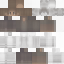
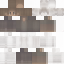
alpha premultiplication
I probably messed up the standard deviation but I have quintuple checked the code and it seems to be all good.

I probably messed up the code before which is actually really cool as the standard deviation before was really ugly and cursed imo (inner layer).

diff --git a/src/analyze.ts b/src/analyze.ts
@@ -11,14 +11,22 @@ const SKIN_CHANNELS = 4
 const SKIN_PIXELS = SKIN_WIDTH * SKIN_HEIGHT
 const SKIN_BYTES = SKIN_PIXELS * SKIN_CHANNELS
 
+// TODO: Find a less horrendous way of sharing data like this between calculations
+const totalPixelAlpha: number[] = Array(SKIN_PIXELS).fill(0)
+
 async function calculateAverage (): Promise<number[]> {
   const total: number[] = Array(SKIN_BYTES).fill(0)
 
   const splitter = new MetaFileSplitter(SKIN_BYTES)
 
   splitter.on('data', buffer => {
-    for (let i = 0; i < buffer.length; i++) {
-      total[i] += buffer[i]
+    for (let i = 0; i < buffer.length; i += 4) {
+      const alpha = buffer[i + 3] / 256
+
+      total[i + 0] += buffer[i + 0] * alpha
+      total[i + 1] += buffer[i + 1] * alpha
+      total[i + 2] += buffer[i + 2] * alpha
+      total[i + 3] += buffer[i + 3]
     }
   })
 
@@ -26,19 +34,50 @@ async function calculateAverage (): Promise<number[]> {
 
   await new Promise<void>(resolve => splitter.stream.on('end', resolve))
 
-  const average = total.map(n => n / splitter.files)
+  for (let i = 0; i < totalPixelAlpha.length; i++) {
+    const alpha = total[(i * 4) + 3] / 256
+
+    totalPixelAlpha[i] = alpha
+  }
+
+  const average = Array.from(total)
+
+  for (let iPixel = 0; iPixel < totalPixelAlpha.length; iPixel++) {
+    const iByte = iPixel * 4
+
+    const alpha = totalPixelAlpha[iPixel]
+
+    average[iByte + 0] /= alpha
+    average[iByte + 1] /= alpha
+    average[iByte + 2] /= alpha
+    average[iByte + 3] /= splitter.files
+  }
 
   return average
 }
 
 async function calculateStandardDeviation (average: number[]): Promise<number[]> {
-  const squareStandardDeviation: number[] = Array(SKIN_BYTES).fill(0)
+  const squareStandardDeviation: number[] = Array(SKIN_PIXELS * 3).fill(0)
 
   const splitter = new MetaFileSplitter(SKIN_BYTES)
 
   splitter.on('data', buffer => {
-    for (let i = 0; i < buffer.length; i++) {
-      squareStandardDeviation[i] += Math.pow(buffer[i] - average[i], 2)
+    for (let iPixel = 0; iPixel < SKIN_PIXELS; iPixel++) {
+      const iByteRGBA = iPixel * 4
+
+      const alpha = buffer[iByteRGBA + 3] / 256
+
+      const totalAlpha = totalPixelAlpha[iPixel]
+
+      const r = buffer[iByteRGBA + 0] * alpha / totalAlpha
+      const g = buffer[iByteRGBA + 1] * alpha / totalAlpha
+      const b = buffer[iByteRGBA + 2] * alpha / totalAlpha
+
+      const iByteRGB = iPixel * 3
+
+      squareStandardDeviation[iByteRGB + 0] += Math.pow(r - average[iByteRGBA + 0], 2)
+      squareStandardDeviation[iByteRGB + 1] += Math.pow(g - average[iByteRGBA + 1], 2)
+      squareStandardDeviation[iByteRGB + 2] += Math.pow(b - average[iByteRGBA + 2], 2)
     }
   })
 
@@ -47,6 +86,8 @@ async function calculateStandardDeviation (average: number[]): Promise<number[]>
   await new Promise<void>(resolve => splitter.stream.on('end', resolve))
 
   const standardDeviation = squareStandardDeviation.map(Math.sqrt)
+
+  console.log(standardDeviation)
 
   return standardDeviation
 }
@@ -78,32 +119,29 @@ await sharp(standardDeviationBuffer, {
   raw: {
     width: SKIN_WIDTH,
     height: SKIN_HEIGHT,
-    channels: SKIN_CHANNELS
+    channels: 3
   }
 })
-  .toFile('./standard-deviation.png')
-
-await sharp(standardDeviationBuffer, {
-  raw: {
-    width: SKIN_WIDTH,
-    height: SKIN_HEIGHT,
-    channels: SKIN_CHANNELS
-  }
-})
-  .removeAlpha()
   .toFile('./standard-deviation.rgb.png')
 
+const standardDeviationBufferRGBA = Buffer.allocUnsafe(SKIN_BYTES)
+
 // α(average) -> α(standard deviation)
-for (let i = 0; i < SKIN_BYTES; i += 4) {
-  standardDeviationBuffer[i + 3] = averageBuffer[i + 3]
+for (let iPixel = 0; iPixel < SKIN_PIXELS; iPixel++) {
+  const iByteRGBA = iPixel * 4
+  const iByteRGB = iPixel * 3
+
+  standardDeviationBufferRGBA[iByteRGBA + 0] = standardDeviationBuffer[iByteRGB + 0]
+  standardDeviationBufferRGBA[iByteRGBA + 1] = standardDeviationBuffer[iByteRGB + 1]
+  standardDeviationBufferRGBA[iByteRGBA + 2] = standardDeviationBuffer[iByteRGB + 2]
+  standardDeviationBufferRGBA[iByteRGBA + 3] = averageBuffer[iByteRGBA + 3]
 }
 
-await sharp(standardDeviationBuffer, {
+await sharp(standardDeviationBufferRGBA, {
   raw: {
     width: SKIN_WIDTH,
     height: SKIN_HEIGHT,
-    channels: SKIN_CHANNELS
+    channels: 4
   }
 })
-  .removeAlpha()
   .toFile('./standard-deviation.average-alpha.png')
